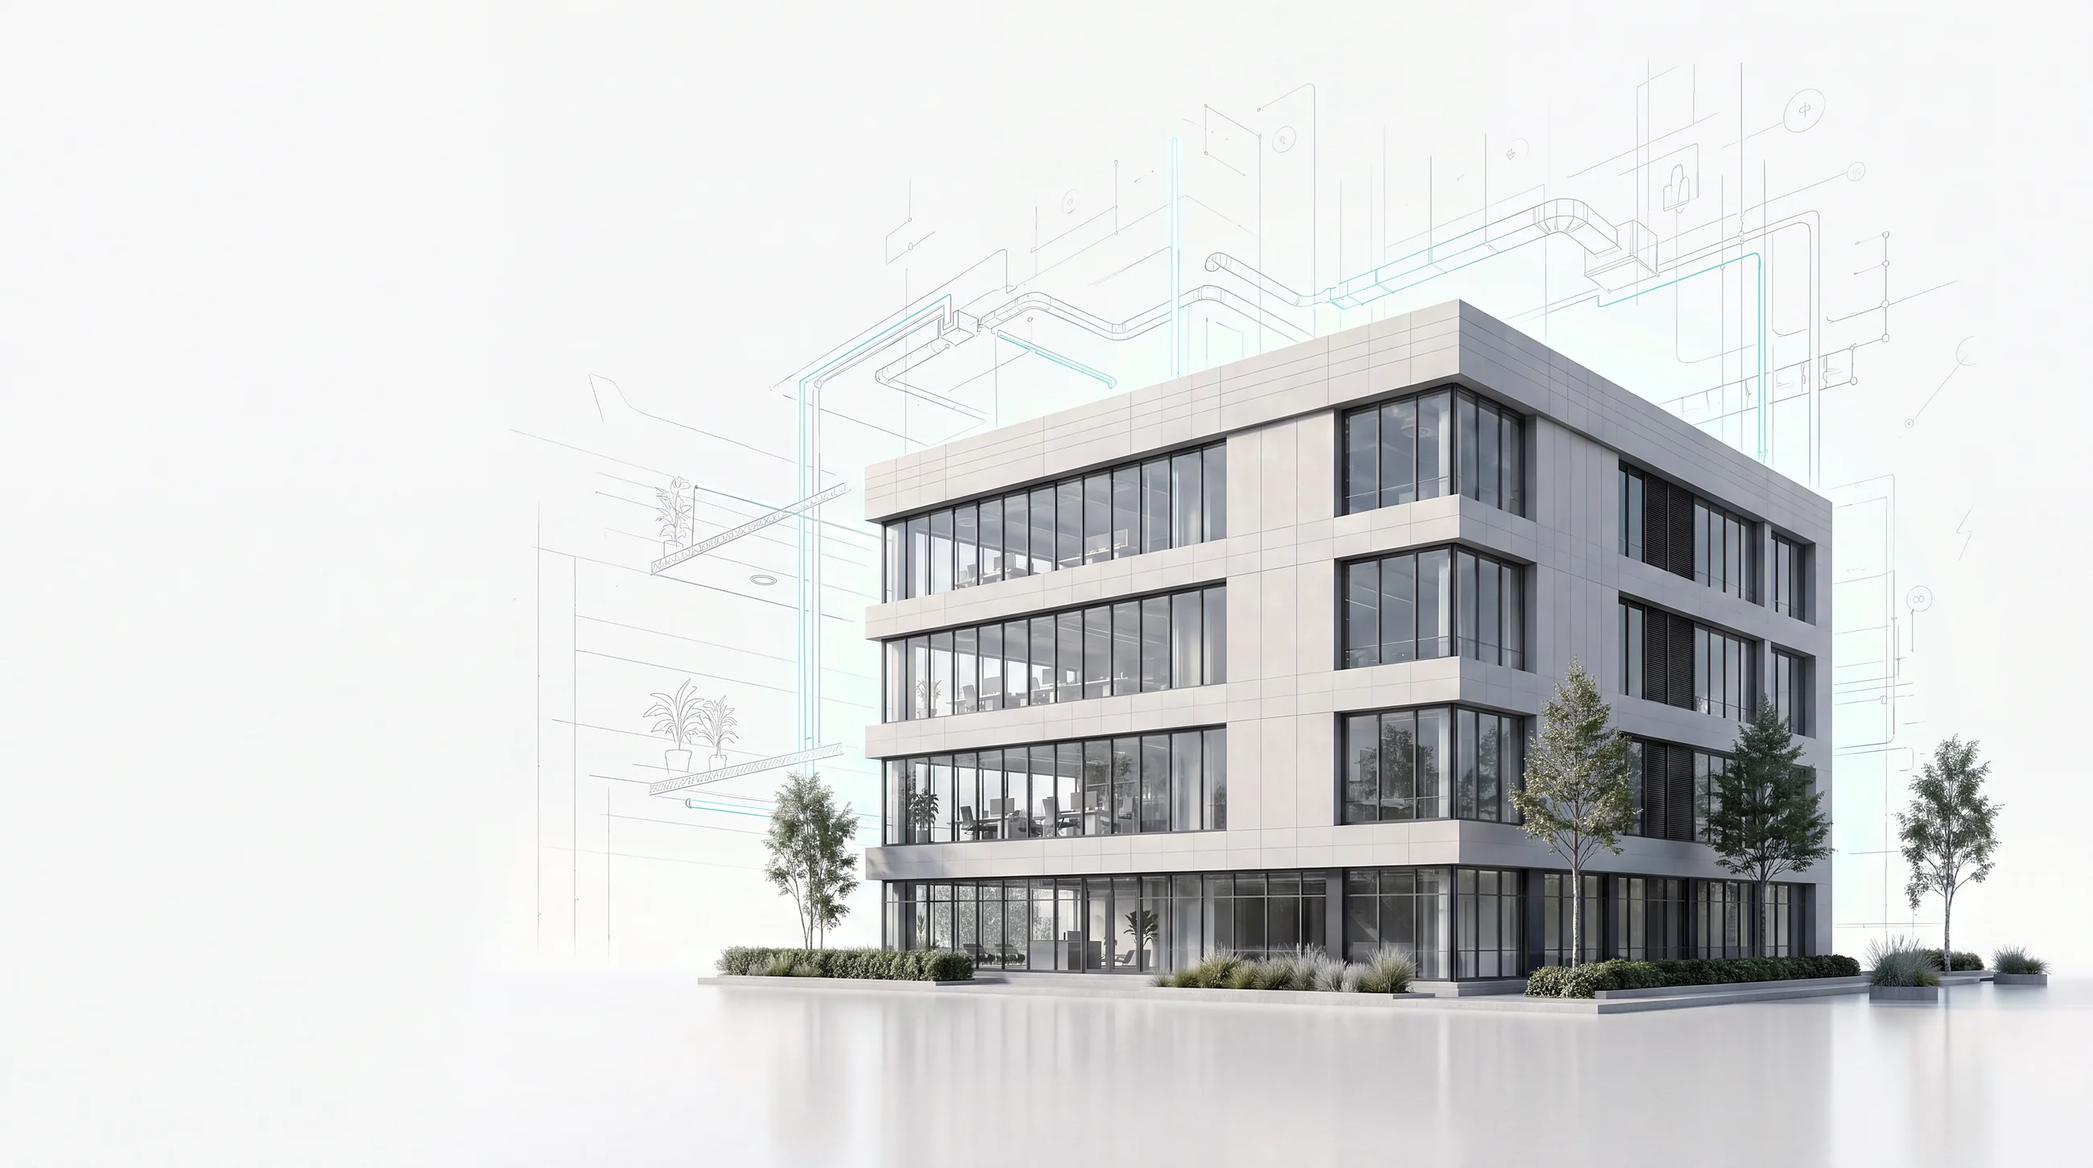
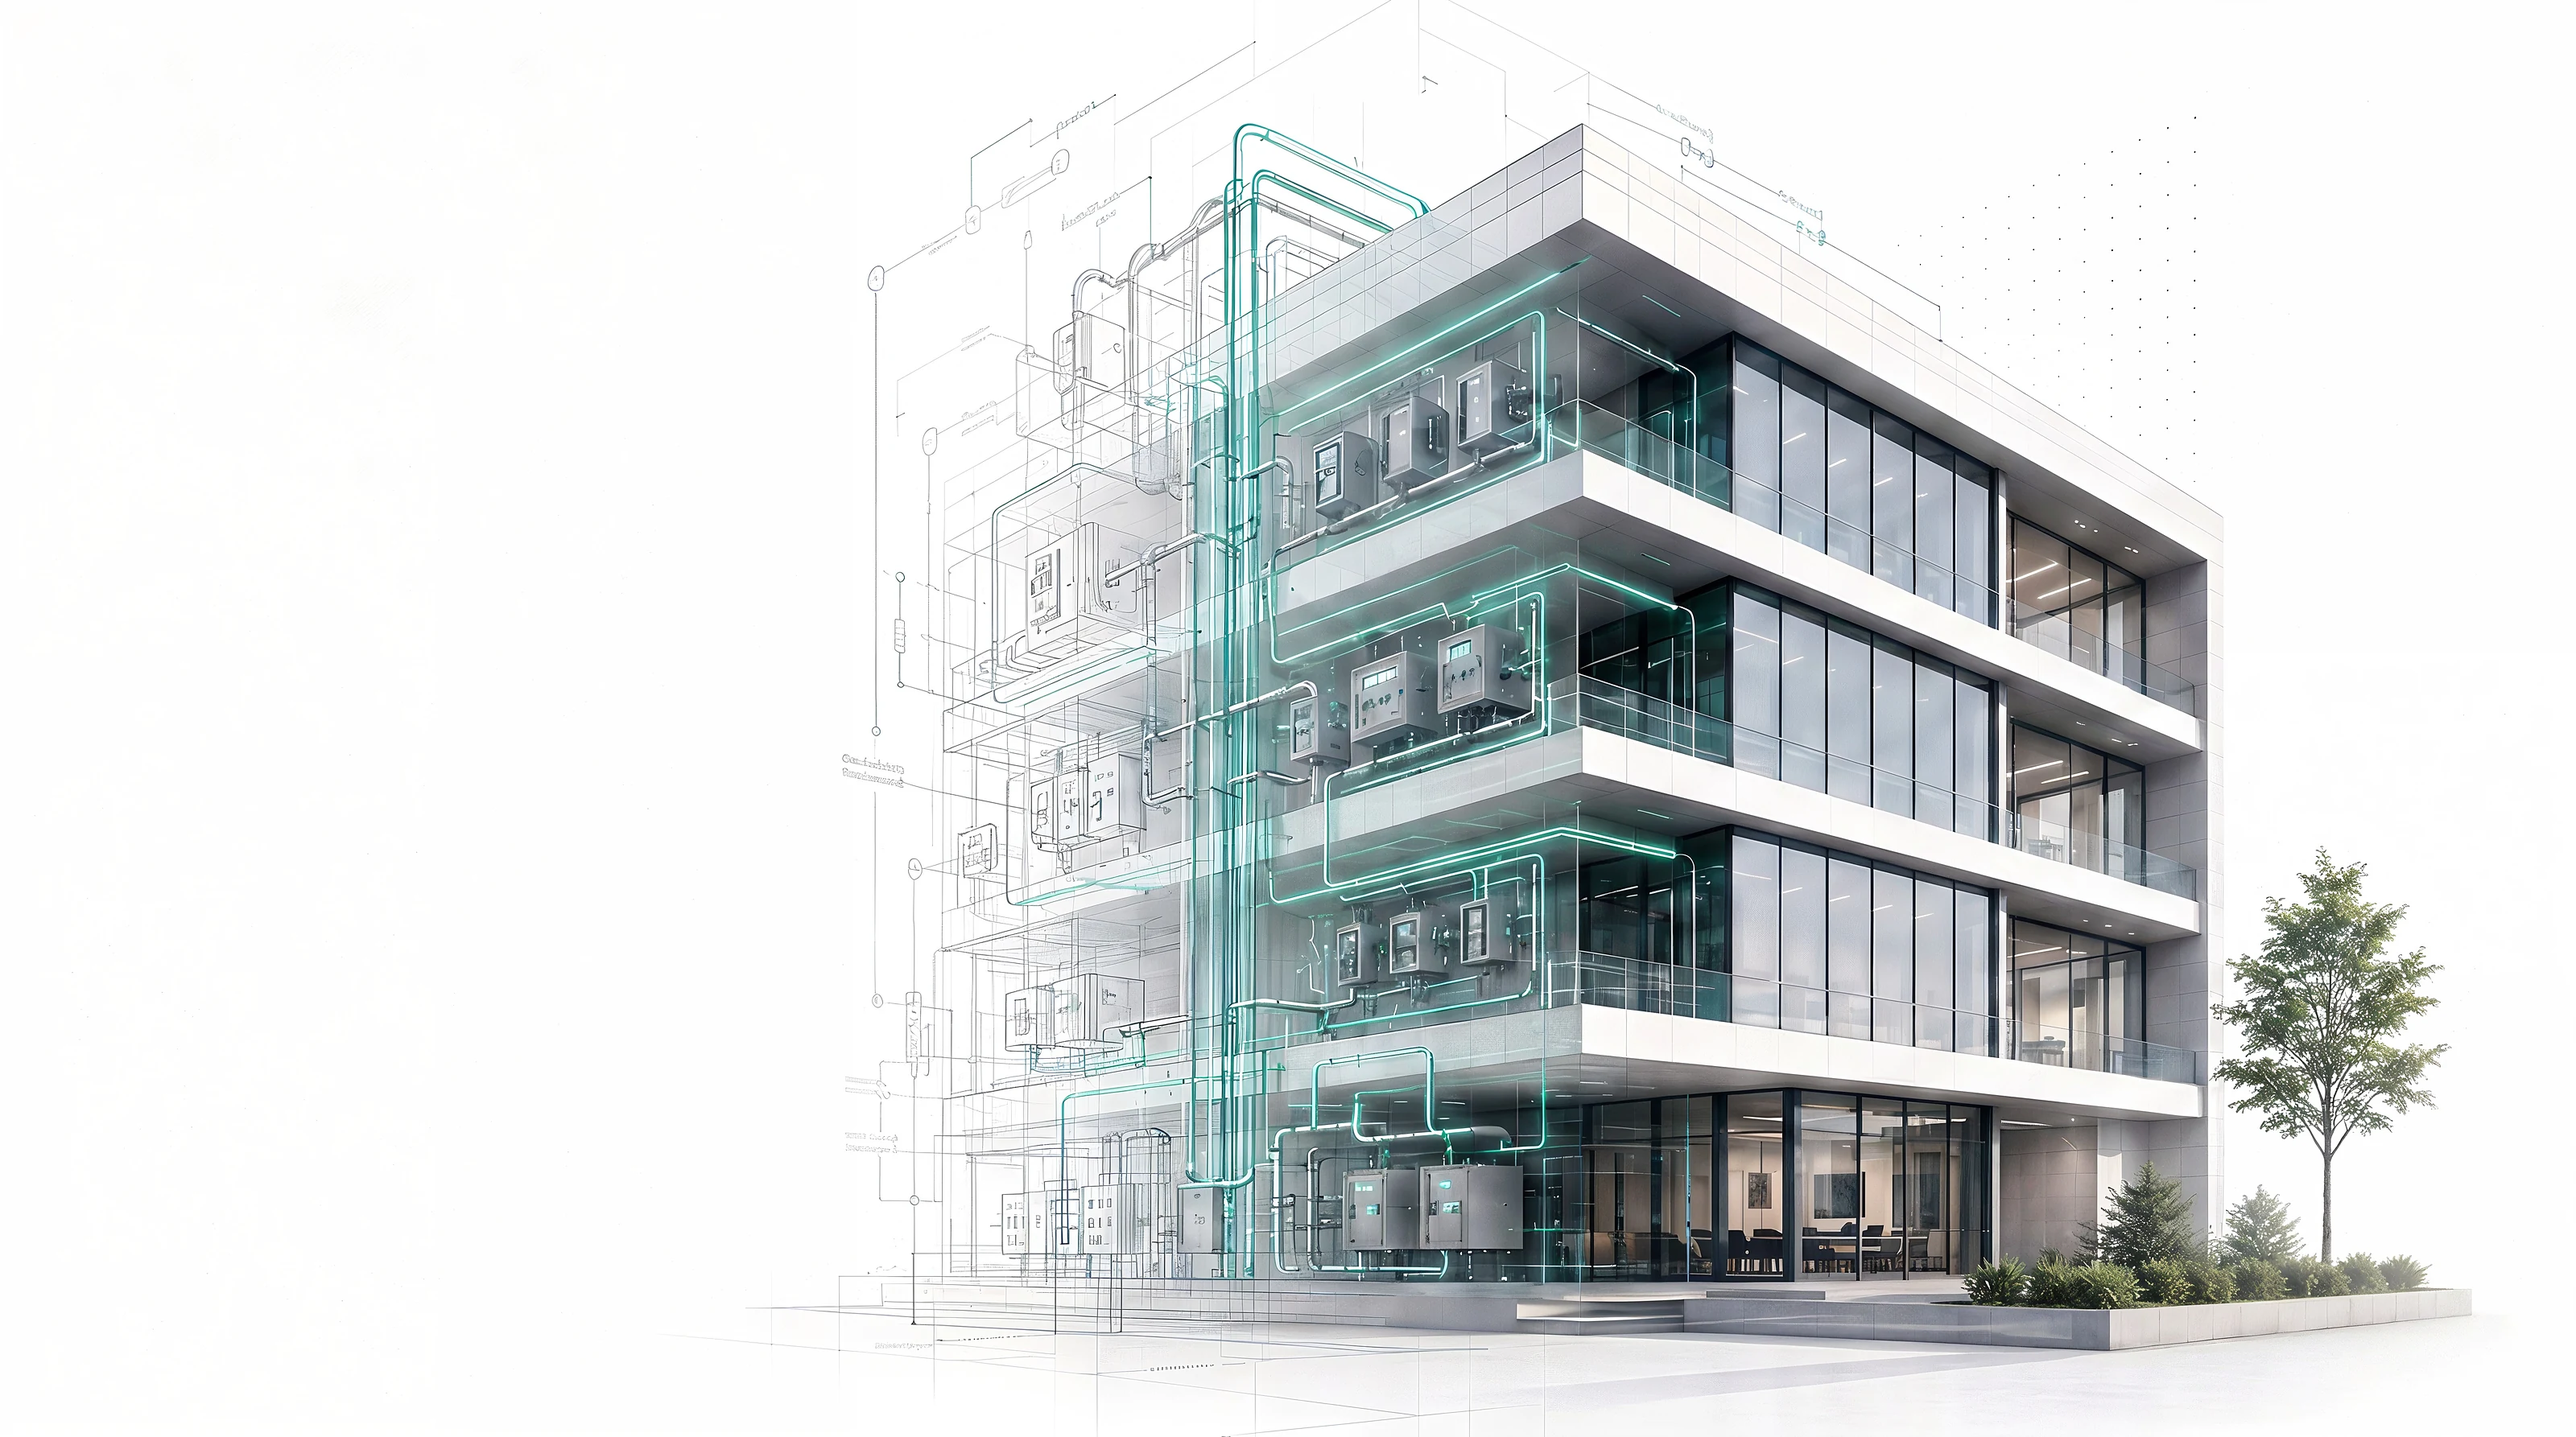
Neues Titelbild: Verlauf nach links, unser Gebaeude
Nach der Vorlage, gespiegelt: rechts steht das Gebaeude gebaut, nach
links oeffnet es sich als Roentgen mit leuchtenden Leitungen und loest
sich in die feine technische Zeichnung auf.

3200x1786 statt 2600x1451, viermal hochgerechnet aus der Vorlage.
Kantenschaerfe 2450 gegen 1606 beim bisherigen Bild.

diff --git a/index.html b/index.html
@@ -12,7 +12,7 @@
 <link rel="preconnect" href="https://fonts.gstatic.com" crossorigin>
 <link href="https://fonts.googleapis.com/css2?family=Inter:wght@300;400;500;600;700;800&family=Overpass+Mono:wght@400;500&display=swap" rel="stylesheet">
 <link rel="stylesheet" href="https://cdn.jsdelivr.net/npm/lenis@1.1.14/dist/lenis.css">
-<link rel="stylesheet" href="assets/style.css?v=1785662475">
+<link rel="stylesheet" href="assets/style.css?v=1785662987">
 </head>
 <body>
 
@@ -80,7 +80,7 @@
 <!-- ══ HERO (unverändert, hell) ═══════════════════════════════════════════ -->
 <section class="hero" data-parallax>
   <div class="hero__visual" data-hero-visual data-layer="3">
-      <img src="assets/img/header-gebaeude.webp" width="2600" height="1451"
+      <img src="assets/img/header-gebaeude.webp?v=1785662987" width="3200" height="1786"
            alt="Modernes Bürogebäude, dahinter die technische Zeichnung seiner Gebäudetechnik" fetchpriority="high">
   </div>
 
